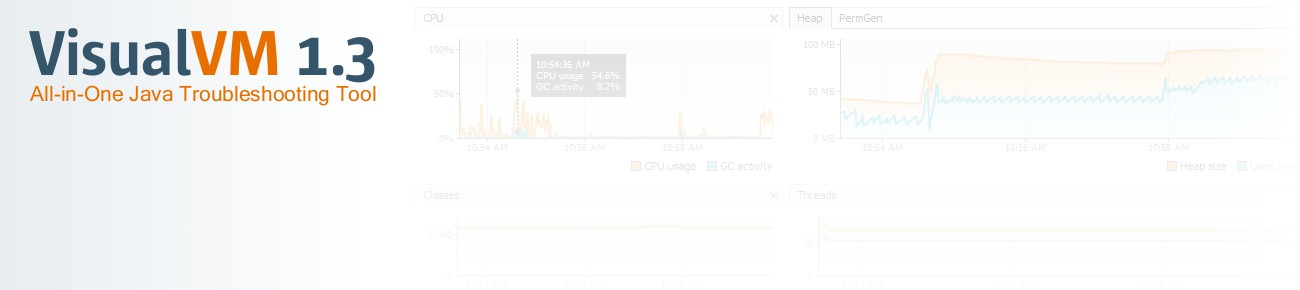
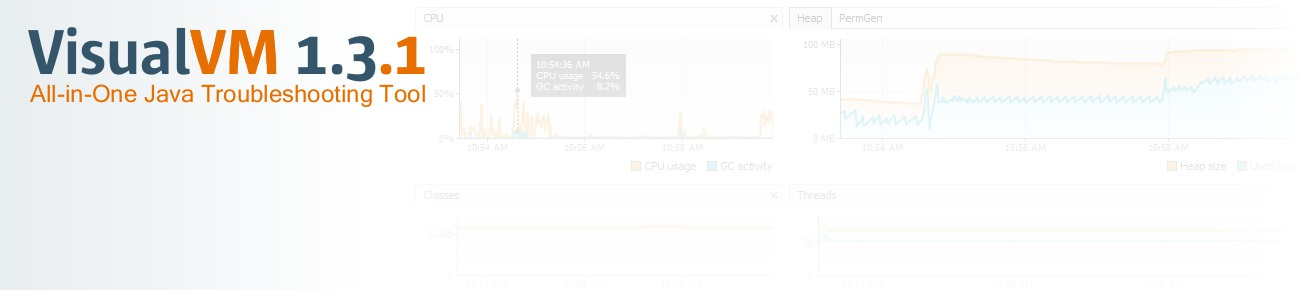
Releasing VisualVM 1.3.1
git-svn-id: https://svn.java.net/svn/visualvm~svn/trunk@2844 ba0df5e5-9053-6d9f-941f-f112716aa91a

Changed region(s): [[0.0, 0.0931, 0.3385, 0.3724]]

diff --git a/www/relnotes13.html b/www/relnotes13.html
@@ -1,7 +1,7 @@
 <html>
 <head>
 
-    <title>VisualVM 1.3.1 Release Notes</title>
+    <title>VisualVM 1.3 Release Notes</title>
 
     <style>
 
@@ -42,14 +42,14 @@
     <div id="contents_contents">
         <div id="contents_main">
 
-            <h1>VisualVM 1.3.1 Release Notes</h1>
+            <h1>VisualVM 1.3 Release Notes</h1>
 
             <p>
                 VisualVM is a visual tool integrating several commandline JDK tools and lightweight profiling capabilities. Designed for both production and development time use, it further enhances the capability of monitoring and performance analysis for the Java SE platform.
             </p>
 
             <p style="margin-bottom: 15px;">
-                VisualVM 1.3.1 is a bugfix release based on VisualVM 1.3. See the <a href="#changes">Changes In 1.3.1</a> section for list of changes and bugfixes since the VisualVM 1.3.
+                VisualVM 1.3 is a stable release following after VisualVM 1.2.2. See the <a href="#changes">Changes In 1.3</a> section for list of changes and bugfixes since the VisualVM 1.2.2.
                 See the <a href="releases.html">Releases Overview</a> page for detailed overview of all VisualVM and Java VisualVM releases.
             </p>
 
@@ -98,82 +98,6 @@
             </div>
 
             <a name="changes"></a>
-            <h3>Changes In 1.3.1</h3>
-            <div>
-                <p style="margin-top: 5px;">
-                    <b>Features and enhancements:</b><br>
-                    <ul>
-                        <li>Added Java version and vendor information to the application Overview view
-                        </li>
-
-                        <li>Built on NetBeans Platform & profiler 6.9.1
-                        </li>
-                    </ul>
-                </p>
-
-                <p style="margin-top: 5px; margin-bottom: 10px;">
-                    <b>Fixed bugs:</b><br>
-                    <ul>
-                        <li><a href="https://visualvm.dev.java.net/issues/show_bug.cgi?id=397">Issue 397</a>: Overview tab does not have 'Details' and 'Saved data'
-                        </li>
-
-                        <li><a href="https://visualvm.dev.java.net/issues/show_bug.cgi?id=398">Issue 398</a>: BTrace probes are enabled for remote application
-                        </li>
-
-                        <li><a href="https://visualvm.dev.java.net/issues/show_bug.cgi?id=403">Issue 403</a>: [I18N] Show/Hide section checkbox tooltip not from bundle
-                        </li>
-
-                        <li><a href="https://visualvm.dev.java.net/issues/show_bug.cgi?id=405">Issue 405</a>: UnsupportedOperationException when opening remote application
-                        </li>
-
-                        <li><a href="https://visualvm.dev.java.net/issues/show_bug.cgi?id=406">Issue 406</a>: Confusing message in HeapWalker
-                        </li>
-
-                        <li><a href="https://visualvm.dev.java.net/issues/show_bug.cgi?id=407">Issue 407</a>: Bad Tracer charts quality
-                        </li>
-                    </ul>
-                </p>
-
-                <!--p style="margin-top: 5px; margin-bottom: 10px;">
-                    <b>Fixed bugs:</b> <a href="https://visualvm.dev.java.net/issues/buglist.cgi?Submit+query=Submit+query&issue_type=DEFECT&component=visualvm&resolution=FIXED&target_milestone=1.3.1&email1=&emailtype1=exact&emailassigned_to1=1&email2=&emailtype2=exact&emailreporter2=1&issueidtype=include&issue_id=&changedin=&votes=&chfield=creation_ts&chfieldfrom=&chfieldto=Now&chfieldvalue=&short_desc=&short_desc_type=fulltext&long_desc=&long_desc_type=fulltext&issue_file_loc=&issue_file_loc_type=fulltext&status_whiteboard=&status_whiteboard_type=fulltext&field0-0-0=noop&type0-0-0=noop&value0-0-0=&cmdtype=doit&order=Reuse+same+sort+as+last+time">IssueTracker query</a>.
-                </p-->
-            </div>
-
-            <a name="known_problems"></a>
-            <h3>Known Problems</h3>
-            <div>
-                <ul>
-                    <li><a href="https://visualvm.dev.java.net/issues/show_bug.cgi?id=224">Issue 224</a>: Cannot memory profile JBoss AS 4.2.3.GA
-                    </li>
-
-                    <li><a href="https://visualvm.dev.java.net/issues/show_bug.cgi?id=148">Issue 148</a>: VisualVM hangs when lost remote connection
-                    </li>
-
-                    <li><a href="https://visualvm.dev.java.net/issues/show_bug.cgi?id=120">Issue 120</a>: JMX application datasource cannot be reused on application restart
-                    </li>
-
-                    <li><a href="https://visualvm.dev.java.net/issues/show_bug.cgi?id=72">Issue 72</a>: Running application sometimes not recognized
-                    </li>
-                </ul>
-
-                <p>
-                    <b>Warning:</b> due to a JDK bug taking heap dump may crash the target JVM if it's running JDK 6 Update 16+ using Concurrent Mark Sweep garbage collector (CMS). A workaround is to use a different GC (for example using <code>-XX:+UseParallelGC</code>). Similar problem seems to affect also the JDK 7 devbuilds.
-                </p>
-
-                <p style="margin-bottom: 15px;">To view all known problems please use this <a href="https://visualvm.dev.java.net/issues/buglist.cgi?Submit+query=Submit+query&issue_type=DEFECT&component=visualvm&subcomponent=code&issue_status=NEW&issue_status=STARTED&issue_status=REOPENED&email1=&emailtype1=exact&emailassigned_to1=1&email2=&emailtype2=exact&emailreporter2=1&issueidtype=include&issue_id=&changedin=&votes=&chfieldfrom=&chfieldto=Now&chfieldvalue=&short_desc=&short_desc_type=fulltext&long_desc=&long_desc_type=fulltext&issue_file_loc=&issue_file_loc_type=fulltext&status_whiteboard=&status_whiteboard_type=fulltext&field0-0-0=noop&type0-0-0=noop&value0-0-0=&cmdtype=doit&newqueryname=&order=Reuse+same+sort+as+last+time">IssueTracker query</a>.
-                </p>
-            </div>
-
-            <br>
-            <hr>
-            <hr>
-            <br>
-            <br>
-
-            <a name="changeshistory"></a>
-            <h2>History of Changes</h2>
-            <br>
-
             <h3>Changes In 1.3</h3>
             <div>
                 <p style="margin-top: 5px;">
@@ -273,6 +197,41 @@
                     <b>Fixed bugs:</b> <a href="https://visualvm.dev.java.net/issues/buglist.cgi?Submit+query=Submit+query&issue_type=DEFECT&component=visualvm&resolution=FIXED&target_milestone=1.3&email1=&emailtype1=exact&emailassigned_to1=1&email2=&emailtype2=exact&emailreporter2=1&issueidtype=include&issue_id=&changedin=&votes=&chfield=creation_ts&chfieldfrom=&chfieldto=Now&chfieldvalue=&short_desc=&short_desc_type=fulltext&long_desc=&long_desc_type=fulltext&issue_file_loc=&issue_file_loc_type=fulltext&status_whiteboard=&status_whiteboard_type=fulltext&field0-0-0=noop&type0-0-0=noop&value0-0-0=&cmdtype=doit&order=Reuse+same+sort+as+last+time">IssueTracker query</a>.
                 </p>
             </div>
+
+            <a name="known_problems"></a>
+            <h3>Known Problems</h3>
+            <div>
+                <ul>
+                    <li><a href="https://visualvm.dev.java.net/issues/show_bug.cgi?id=224">Issue 224</a>: Cannot memory profile JBoss AS 4.2.3.GA
+                    </li>
+
+                    <li><a href="https://visualvm.dev.java.net/issues/show_bug.cgi?id=148">Issue 148</a>: VisualVM hangs when lost remote connection
+                    </li>
+
+                    <li><a href="https://visualvm.dev.java.net/issues/show_bug.cgi?id=120">Issue 120</a>: JMX application datasource cannot be reused on application restart
+                    </li>
+
+                    <li><a href="https://visualvm.dev.java.net/issues/show_bug.cgi?id=72">Issue 72</a>: Running application sometimes not recognized
+                    </li>
+                </ul>
+
+                <p>
+                    <b>Warning:</b> due to a JDK bug taking heap dump may crash the target JVM if it's running JDK 6 Update 16+ using Concurrent Mark Sweep garbage collector (CMS). A workaround is to use a different GC (for example using <code>-XX:+UseParallelGC</code>). Similar problem seems to affect also the JDK 7 devbuilds.
+                </p>
+
+                <p style="margin-bottom: 15px;">To view all known problems please use this <a href="https://visualvm.dev.java.net/issues/buglist.cgi?Submit+query=Submit+query&issue_type=DEFECT&component=visualvm&subcomponent=code&issue_status=NEW&issue_status=STARTED&issue_status=REOPENED&email1=&emailtype1=exact&emailassigned_to1=1&email2=&emailtype2=exact&emailreporter2=1&issueidtype=include&issue_id=&changedin=&votes=&chfieldfrom=&chfieldto=Now&chfieldvalue=&short_desc=&short_desc_type=fulltext&long_desc=&long_desc_type=fulltext&issue_file_loc=&issue_file_loc_type=fulltext&status_whiteboard=&status_whiteboard_type=fulltext&field0-0-0=noop&type0-0-0=noop&value0-0-0=&cmdtype=doit&newqueryname=&order=Reuse+same+sort+as+last+time">IssueTracker query</a>.
+                </p>
+            </div>
+
+            <br>
+            <hr>
+            <hr>
+            <br>
+            <br>
+
+            <a name="changeshistory"></a>
+            <h2>History of Changes</h2>
+            <br>
 
             <h3>Changes In 1.2.2</h3>
             <div>
@@ -554,7 +513,7 @@
         <h3 class="first">On This Page</h3>
         <div>
             <a href="#system_requirements">System Requirements</a>
-            <a href="#changes">Changes In 1.3.1</a>
+            <a href="#changes">Changes In 1.2.2</a>
             <a href="#known_problems">Known Problems</a>
             <a href="#changeshistory">History of Changes</a>
         </div>

diff --git a/www/build/build13.html b/www/build/build13.html
@@ -1,26 +1,15 @@
 <html>
 <head>
-<title>Build guide for VisualVM 1.3.1</title>
+<title>Build guide for VisualVM 1.3</title>
 <meta http-equiv="Content-Type" content="text/html; charset=iso-8859-1">
 </head>
 <body>
 <p>
-Build instructions for the latest stable version <b>VisualVM 1.3.1</b>. If you want to build different version use links below:
-<ul>
-    <li><a href="build/build.html">trunk</a></li>
-    <li><a href="build/build13.html">VisualVM 1.3</a></li>
-    <li><a href="build/build122.html">VisualVM 1.2.2</a></li>
-    <li><a href="build/build121.html">VisualVM 1.2.1</a></li>
-    <li><a href="build/build12.html">VisualVM 1.2</a></li>
-    <li><a href="build/build111.html">VisualVM 1.1.1</a></li>
-    <li><a href="build/build11.html">VisualVM 1.1</a></li>
-    <li><a href="build/build101.html">VisualVM 1.0.1</a></li>
-    <li><a href="build/build10.html">VisualVM 1.0</a></li>
-</ul>
+Build instructions for <b>VisualVM 1.3</b>.
 Check out source code with a CVS client using the following command. Note: replace <code>username</code> with your own username.<br>
 <code>cvs -d :pserver:username@cvs.dev.java.net:/cvs login</code><br>
 followed by<br>
-<code> cvs -d :pserver:username@cvs.dev.java.net:/cvs checkout -r release131 -P visualvm</code><br>
+<code> cvs -d :pserver:username@cvs.dev.java.net:/cvs checkout -r release13 -P visualvm</code><br>
 </p>
 
 <p>There are two suites:</p>
@@ -29,7 +18,7 @@ followed by<br>
 <li><b>plugins</b>: which contains the plugins available in the VisualVM Plugin Center.</li>
 </ul>
 
-<p>The layout in <a href="https://visualvm.dev.java.net/source/browse/visualvm/?only_with_tag=release131">CVS</a> for VisualVM 1.3.1 release is:</p>
+<p>The layout in <a href="https://visualvm.dev.java.net/source/browse/visualvm/?only_with_tag=release13">CVS</a> for VisualVM 1.3 release is:</p>
 <ul>
     <li>visualvm
         <ul>
@@ -40,8 +29,8 @@ followed by<br>
     </li>
 </ul>
 <p>
-To build the visualvm core tool you need the NetBeans 6.9.1 platform and profiler binaries available
-<a href="https://visualvm.dev.java.net/files/documents/7163/152734/nb691_visualvm_09092010.zip">here</a>.
+To build the visualvm core tool you need the NetBeans 6.9 platform and profiler binaries available
+<a href="https://visualvm.dev.java.net/files/documents/7163/151493/nb69_visualvm_14072010.zip">here</a>.
 These binaries must be extracted into the visualvm/visualvm directory. You can use <code>ant run</code>
 or <code>ant build-zip</code> to build or run VisualVM.
 </p>

diff --git a/www/download.html b/www/download.html
@@ -54,9 +54,9 @@
             <a name="download"></a>
             <h3>Download</h3>
             <div style="background: #f0f1f2; padding: 10px; padding-left: 20px; margin-bottom: 10px;">
-                <div><a href="https://visualvm.dev.java.net/files/documents/7163/151728/visualvm_13.zip"><span style="font-size: 14px; font-weight: bold;">VisualVM 1.3</span></a> (.zip, 11.3MB)<span style="margin-left: 15px; margin-right: 15px;">|</span>IDE integration: <a href="eclipse-launcher.html">Eclipse IDE</a></div>
-                <div style="padding-top: 5px;"><small><a href="https://visualvm.dev.java.net/files/documents/7163/151730/visualvm_13-ml.zip"><b>Multi-language</b></a> (.zip, 12.1MB, English / Japanese <img src="ja/images/japanese.png" style="border: 0px; vertical-align: bottom;"/> / Chinese <img src="zh_CN/images/simplified_chinese.png" style="border: 0px; vertical-align: bottom;"/>)</small></div>
-                <div><small><a href="https://visualvm.dev.java.net/files/documents/7163/151731/VisualVM_13.dmg"><b>Mac OS X Application Bundle</b></a> (.dmg, 13.0MB)</small></div>
+                <div><a href="https://visualvm.dev.java.net/files/documents/7163/152922/visualvm_131.zip"><span style="font-size: 14px; font-weight: bold;">VisualVM 1.3.1</span></a> (.zip, 11.3MB)<span style="margin-left: 15px; margin-right: 15px;">|</span>IDE integration: <a href="eclipse-launcher.html">Eclipse IDE</a></div>
+                <div style="padding-top: 5px;"><small><a href="https://visualvm.dev.java.net/files/documents/7163/152923/visualvm_131-ml.zip"><b>Multi-language</b></a> (.zip, 12.1MB, English / Japanese <img src="ja/images/japanese.png" style="border: 0px; vertical-align: bottom;"/> / Chinese <img src="zh_CN/images/simplified_chinese.png" style="border: 0px; vertical-align: bottom;"/>)</small></div>
+                <div><small><a href="https://visualvm.dev.java.net/files/documents/7163/152930/VisualVM_131.dmg"><b>Mac OS X Application Bundle</b></a> (.dmg, 13.1MB)</small></div>
             </div>
             
             <a style="clear: both;" name="first_steps"></a>

diff --git a/www/index.html b/www/index.html
@@ -50,6 +50,12 @@
             <div id="news" style="margin-bottom: 10px;">
                 <!-- Please always display 3 items here. The item to be removed should be archived on news.html -->
 
+                <p><span class="news_date">September 20th, 2010:</span> VisualVM 1.3.1 released. This release upgrades the
+                    underlying framework to the NetBeans Platform 6.9.1 and delivers several bugfixes. The tool can be
+                    downloaded from the <a href="download.html">Download</a> page, sources are available in
+                    <a href="https://visualvm.dev.java.net/source/browse/visualvm/visualvm/?only_with_tag=release131"><code>release131</code></a> branch.
+                </p>
+
                 <p><span class="news_date">September 7th, 2010:</span> VisualVM Harness 1.0 has been released to
                     simplify the build and packaging of OpenJDK. As of IcedTea6 1.9, VisualVM build support has been
                     replaced by the VisualVM Harness covering both VisualVM 1.2.2 (built on NetBeans Platform 6.8)
@@ -62,11 +68,6 @@
                     much more. The tool can be downloaded from the <a href="download.html">Download</a> page, sources are available in
                     <a href="https://visualvm.dev.java.net/source/browse/visualvm/visualvm/?only_with_tag=release13"><code>release13</code></a>
                     branch. See the <a href="relnotes.html">Release Notes</a> for more information.
-                </p>
-
-                <p><span class="news_date">July 7th, 2010:</span> JDK 6 Update 21 released, it contains Java VisualVM tool
-                    based on the VisualVM 1.2.2. Latest JDK 6 update from Oracle can be downloaded
-                    <a href="http://java.sun.com/javase/downloads/index.jsp">here</a>.
                 </p>
 
                 <p class="previous_link"><a href="news.html">news archive</a>

diff --git a/www/releases.html b/www/releases.html
@@ -80,11 +80,21 @@
 
                         <tr>
                             <td>
-                                <div><b>VisualVM 1.3</b><br><small style="margin-left: 10px;">Released: July 26th, 2010, <a href="https://visualvm.dev.java.net/files/documents/7163/151728/visualvm_13.zip">Download</a> (<a href="https://visualvm.dev.java.net/files/documents/7163/151730/visualvm_13-ml.zip">ml</a>), <a href="relnotes.html">Release Notes</a></small></div>
+                                <div><b>VisualVM 1.3.1</b><br><small style="margin-left: 10px;">Released: September 20th, 2010, <a href="https://visualvm.dev.java.net/files/documents/7163/152922/visualvm_131.zip">Download</a> (<a href="https://visualvm.dev.java.net/files/documents/7163/152923/visualvm_131-ml.zip">ml</a>), <a href="relnotes.html">Release Notes</a></small></div>
                             </td>
 
                             <td>
                                 <div>not released yet</div>
+                            </td>
+                        </tr>
+
+                        <tr>
+                            <td>
+                                <div><b>VisualVM 1.3</b><br><small style="margin-left: 10px;">Released: July 26th, 2010, <a href="https://visualvm.dev.java.net/files/documents/7163/151728/visualvm_13.zip">Download</a> (<a href="https://visualvm.dev.java.net/files/documents/7163/151730/visualvm_13-ml.zip">ml</a>), <a href="relnotes13.html">Release Notes</a></small></div>
+                            </td>
+
+                            <td>
+                                <div>not released</div>
                             </td>
                         </tr>
 

diff --git a/www/pluginscenters.html b/www/pluginscenters.html
@@ -108,6 +108,16 @@
 
                             <tr>
                                 <td class="release">
+                                    <div><b>VisualVM 1.3.1</b></div>
+                                </td>
+
+                                <td class="plugincenter">
+                                    <div><small><a href="http://www.netbeans.info/uc/show_uc_content.php?ucurl=http://bits.netbeans.org/VisualVM/uc/release131/updates.xml">https://visualvm.dev.java.net/uc/release131/updates.xml.gz</a></small></div>
+                                </td>
+                            </tr>
+
+                            <tr>
+                                <td class="release">
                                     <div><b>VisualVM 1.3</b></div>
                                 </td>
 

diff --git a/www/news.html b/www/news.html
@@ -72,6 +72,11 @@
             <h3>News</h3>
             <div id="news">
 
+                <p><span class="news_date">July 7th, 2010:</span> JDK 6 Update 21 released, it contains Java VisualVM tool
+                    based on the VisualVM 1.2.2. Latest JDK 6 update from Oracle can be downloaded
+                    <a href="http://java.sun.com/javase/downloads/index.jsp">here</a>.
+                </p>
+
                 <p><span class="news_date">March 25th, 2010:</span> SA plugin
                     has been released on VisualVM 1.2.2 Plugins Center. SA Plugin makes Serviceability Agent's features and
                     utilities available in VisualVM. Serviceability Agent is an out-of-process snapshot debugger for Hotspot

diff --git a/www/troubleshooting.html b/www/troubleshooting.html
@@ -57,7 +57,7 @@
     <div id="contents_contents">
         <div id="contents_main">
 
-            <h1>VisualVM 1.3 Troubleshooting Guide</h1>
+            <h1>VisualVM 1.3.1 Troubleshooting Guide</h1>
 
             <p style="margin-bottom: 15px;">
                 This document describes the most common problems related to using VisualVM and information on how to fix or workaround the problems.
